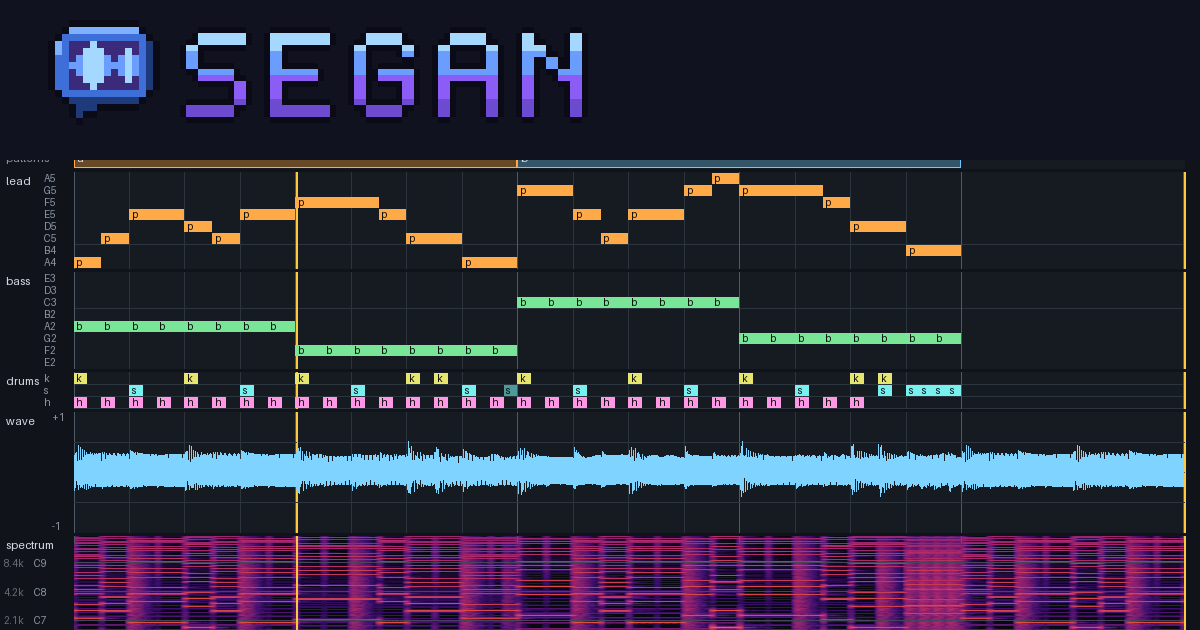
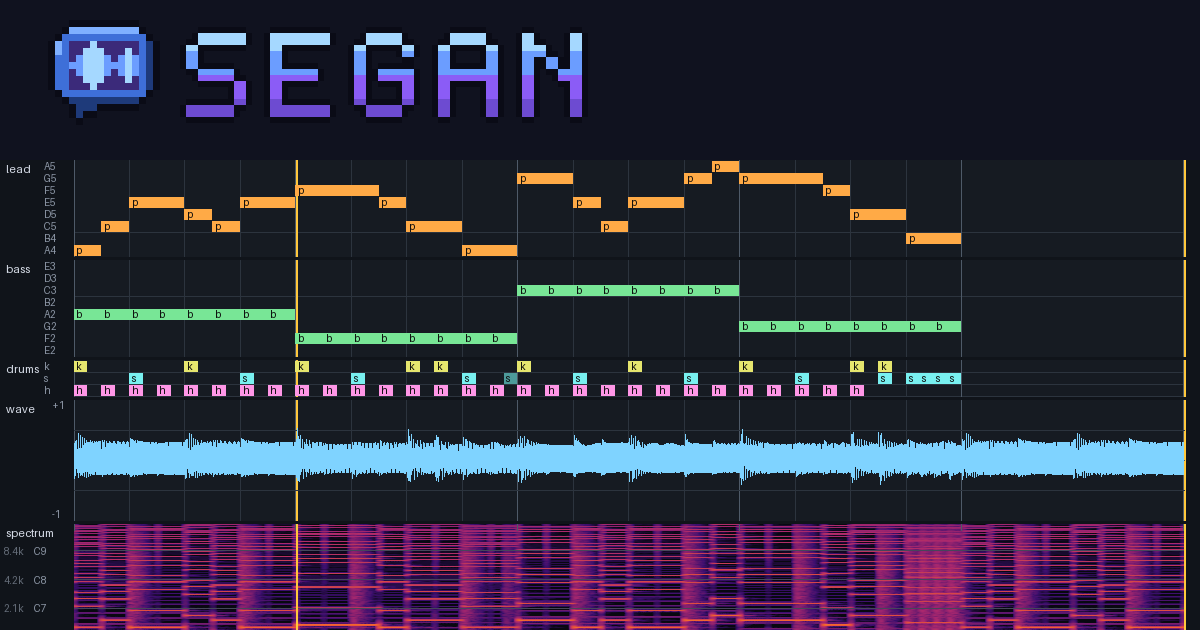
Tighten the hero and the link-preview crop after the side-by-side review

diff --git a/tools/build_site_assets.py b/tools/build_site_assets.py
@@ -556,7 +556,7 @@ def og_images(public: Path, demo: Path) -> None:
     image = Image.new("RGBA", (1200, 630), (16, 18, 31, 255))
     hero_data = json.loads((demo / "hero.json").read_text())
     with Image.open(demo / hero_data["sounds"]["theme"]["outputs"][0]["sheet"]) as sheet:
-        crop = sheet.convert("RGBA").crop((0, 140, 1200, min(sheet.height, 140 + 470)))
+        crop = sheet.convert("RGBA").crop((0, 152, 1200, min(sheet.height, 152 + 470)))
     image.alpha_composite(crop, (0, 630 - crop.height))
     brand_project = pagan_api.open_project(ART / "brand")
     logo = frame_image(pagan_api.load(ART / "brand/sprites/logo.sprite.yaml", brand_project), "main")
